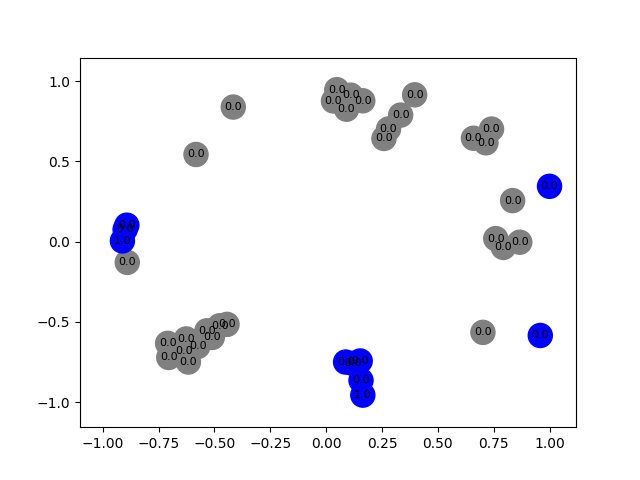
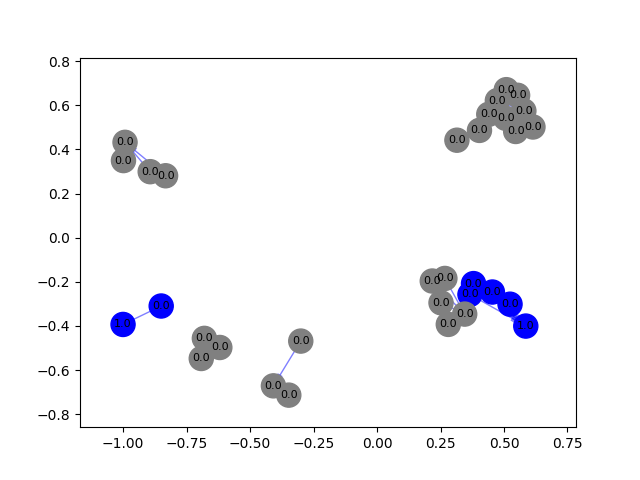
Aggiunta funzione colore in funzione della polarizzazione e la partizione in comunità del grafo

diff --git a/Tesi/GraphRetweet/graph.py b/Tesi/GraphRetweet/graph.py
@@ -43,7 +43,8 @@ def createGraph(retweetList,probDiz):
     for i in range(0,len(retweetList)):
        # print ("pos" + str(i)+"username="+ retweetList[i].user +"ret="+str(retweetList[i].retweet))
         if(  len(retweetList[i].retweet)==0 or  retweetList[i].retweet == None ):
-            G.add_node(retweetList[i].user,color='green')
+         #   G.add_node(retweetList[i].user,color='green')
+         continue
 
         else:
             for j in range(0,len(retweetList[i].retweet)):
@@ -299,6 +300,24 @@ def colorNode(Graph,node_Blue,node_Red):
 
 
 '''
+    @param Graph: is a diGraph
+    @param node_Blue: is the dictionary of node position in Blue group from graph
+    @param node_Red: is the dictionary of node position in Red group from graph
+    @return the list of color of all nodes graph
+'''
+
+def colorNodePol(lenGraph,Pol):
+    node_color_with_partition = []
+    for i in range(0,lenGraph):
+        if Pol[i] > 0:
+            node_color_with_partition.append('Blue')
+        elif Pol[i] < 0:
+            node_color_with_partition.append("Red")
+        else:
+            node_color_with_partition.append("grey")
+    return node_color_with_partition
+
+'''
     @param G: is a diGraph
     @param dictNodeBlue: is the dictionary of node position in Blue group from graph
     @param dictNodeRed: is the dictionary of node position in Red group from graph
@@ -326,7 +345,7 @@ def opinionPolarization(G,attr_mat,firstPol,nodeList):
         sum=0.
         for j in range(0,len(nodeList)):
             sum= sum+ (attr_mat[i][j]*firstPol[j])
-            print("sum",i," ",sum)
+            #print("sum",i," ",sum)
 
         #dangling
         if G.out_degree(nodeList[i])==0 and sum ==0:
@@ -339,20 +358,20 @@ def opinionPolarization(G,attr_mat,firstPol,nodeList):
 def main():
     # Leggo il file pickle dei retweet
     # Costruisco un grafo con networkx partendo dai dati ottenuti
-    with open('../TweetOldSerialization/pickle/RegionaliSiciliaTest/retweetBlueRegionali Sicilia_2017-09-01_2017-09-02_data.pkl', 'rb') as input:
+    with open('../TweetOldSerialization/pickle/RegionaliSiciliaTest/retweetBlueRegionali Sicilia_2017-09-01_2017-09-15_data.pkl', 'rb') as input:
         retweetList = pickle.load(input)
     #List = retweetList
-    with open('../TweetOldSerialization/pickle/RegionaliSiciliaTest/retweetRedRegionali Sicilia_2017-09-01_2017-09-02_data.pkl', 'rb') as input:
+    with open('../TweetOldSerialization/pickle/RegionaliSiciliaTest/retweetRedRegionali Sicilia_2017-09-01_2017-09-15_data.pkl', 'rb') as input:
         retweetListRed = pickle.load(input)
-    with open ('../TweetOldSerialization/pickle/RegionaliSiciliaTest/tweetRegionali Sicilia_2017-09-01_2017-09-02_dictionaryReTweetBlue.pkl', 'rb') as input:
+    with open ('../TweetOldSerialization/pickle/RegionaliSiciliaTest/tweetRegionali Sicilia_2017-09-01_2017-09-15_dictionaryReTweetBlue.pkl', 'rb') as input:
         probRetBlue = pickle.load(input)
-    with open('../TweetOldSerialization/pickle/RegionaliSiciliaTest/tweetRegionali Sicilia_2017-09-01_2017-09-02_dictionaryReTweetRed.pkl','rb') as input:
+    with open('../TweetOldSerialization/pickle/RegionaliSiciliaTest/tweetRegionali Sicilia_2017-09-01_2017-09-15_dictionaryReTweetRed.pkl','rb') as input:
         probRetRed = pickle.load(input)
 
-    with open('../TweetOldSerialization/pickle/RegionaliSiciliaTest/tweetRegionali Sicilia_2017-09-01_2017-09-02_dictionaryReTweetYellow.pkl','rb') as input:
+    with open('../TweetOldSerialization/pickle/RegionaliSiciliaTest/tweetRegionali Sicilia_2017-09-01_2017-09-15_dictionaryReTweetYellow.pkl','rb') as input:
         probYellowGraph = pickle.load(input)
 
-    with open('../TweetOldSerialization/pickle/RegionaliSiciliaTest/retweetYellowRegionali Sicilia_2017-09-01_2017-09-02_data.pkl', 'rb') as input:
+    with open('../TweetOldSerialization/pickle/RegionaliSiciliaTest/retweetYellowRegionali Sicilia_2017-09-01_2017-09-15_data.pkl', 'rb') as input:
         retweetListYellow = pickle.load(input)
 
     List=[]
@@ -407,10 +426,10 @@ def main():
     dizPosizioneBlue=PosNodeDizionario(G.nodes,nodi_Blue)
     dizPosizioneRed=PosNodeDizionario(G.nodes,nodi_Red)
     dizPosizioneYellow = PosNodeDizionario(G.nodes,nodi_Yellow);
-    print("Nodi=",G.nodes())
-    print("DizPosBlue",dizPosizioneBlue)
-    print("DizPosRed",dizPosizioneRed)
-    print("DizPosYelloq",dizPosizioneYellow)
+    # print("Nodi=",G.nodes())
+    # print("DizPosBlue",dizPosizioneBlue)
+    # print("DizPosRed",dizPosizioneRed)
+    # print("DizPosYelloq",dizPosizioneYellow)
     #print("Edge=",G.edges(data='weight'))
     #print("posRed",posizioneRed)
     #print ("posBlue",posizioneBlue)
@@ -422,7 +441,7 @@ def main():
     #List of Polarization of Elite and Listener
     firstPolar= setFirstPolarization(G,dizPosizioneBlue,dizPosizioneRed)
 
-    print "Passo 0 di polarizzazione ",firstPolar
+    #print "Passo 0 di polarizzazione ",firstPolar
 
     dictFirstPol = {}
     x = 0
@@ -435,6 +454,7 @@ def main():
 
     list = []
     for i in G.nodes():
+
         list.append(i)
 
 
@@ -477,8 +497,8 @@ def main():
     #print p_array[15],"sumBlue",sumBlue,"sumRed",sumRed,"sumYellow",sumYellow,count,len(posizioneBlue),mat_attr
 
 
-    #partition = community.induced_graph(G)
-    #print(partition)
+    partition = community.best_partition(G.to_undirected())
+    print(partition)
     #size = float(len(set(partition.values())))
 
     count = 0.
@@ -488,6 +508,7 @@ def main():
     #funziona con la partizione
     node_color= colorNode(G,nodi_Blue,nodi_Red)
 
+    node_colorPol= colorNodePol(len(G.nodes()),newPol)
 
 
 
@@ -533,7 +554,7 @@ def main():
 
     nx.draw_networkx_labels(G, pos,dictPol,font_size=8)
 
-    plt.savefig("GraphPol.png", format="PNG")
+    plt.savefig("GraphPolBest15day.png", format="PNG")
 
     plt.show()
 
